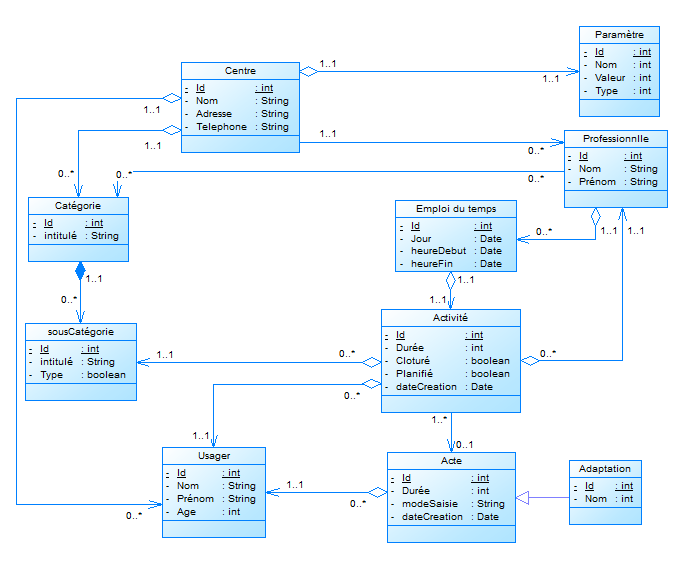
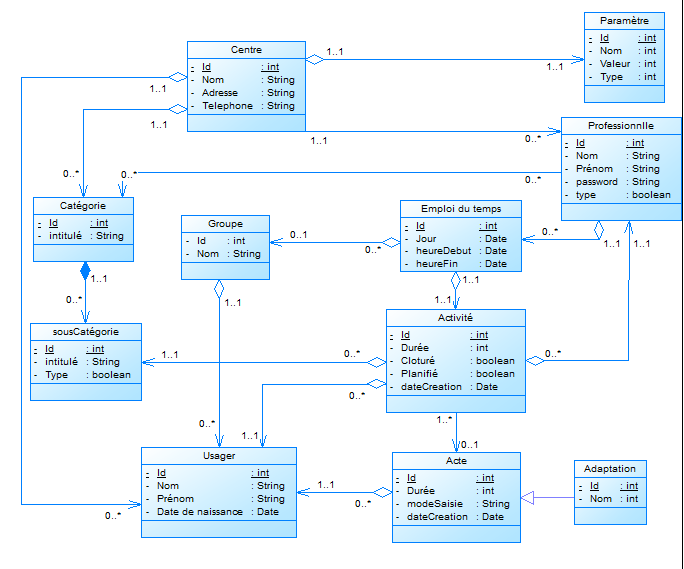
Update password - endPoint

diff --git a/API/app/Http/Controllers/API/ChangePassword.php b/API/app/Http/Controllers/API/ChangePassword.php
@@ -1,0 +1,58 @@
+<?php
+
+namespace App\Http\Controllers\API;
+
+use App\Http\Requests\API\CreateProfessionnelleAPIRequest;
+use App\Http\Requests\API\UpdateProfessionnelleAPIRequest;
+use App\Models\Professionnelle;
+use App\Repositories\ProfessionnelleRepository;
+use Illuminate\Http\Request;
+use App\Http\Controllers\AppBaseController;
+use InfyOm\Generator\Criteria\LimitOffsetCriteria;
+use Prettus\Repository\Criteria\RequestCriteria;
+use Response;
+
+/**
+ * Class ChangePassword
+ * @package App\Http\Controllers\Auth
+ */
+
+class ChangePassword extends AppBaseController
+{
+    /** @var  ProfessionnelleRepository */
+    private $professionnelleRepository;
+    
+    public function __construct(ProfessionnelleRepository $professionnelleRepo)
+    {
+        $this->professionnelleRepository = $professionnelleRepo;
+    }
+
+    /**
+     *
+     * @param Request $request
+     * @return Response
+     */
+    public function reset(Request $request)
+    {
+        $professionnelle = $this->professionnelleRepository->findWithoutFail($request->id);
+
+        if (empty($professionnelle)) {
+            return $this->sendError('Professionnelle not found');
+        }
+
+        $input = $professionnelle;
+
+        $oldPassword = $request->old_password;
+        $password = $request->password;
+        $confirmedPassword = $request->confirmed_password;
+
+        if($oldPassword == $professionnelle->password && $password == $confirmedPassword ){
+            $input['password'] = $password;
+            $professionnelle = $this->professionnelleRepository->update($input->toArray(), $request->id);
+            return $this->sendResponse($professionnelle->toArray(), 'Professionnelle updated successfully');
+        }
+        else return $this->sendResponse('Error', ' Invalid old or confirmed password');
+    }
+
+
+}

diff --git a/API/app/Http/Controllers/Auth/ResetPasswordController.php b/API/app/Http/Controllers/Auth/ResetPasswordController.php
@@ -36,4 +36,30 @@ class ResetPasswordController extends Controller
     {
         $this->middleware('guest');
     }
+
+    public function reset(Request $request)
+    {
+        $this->validate($request, $this->rules(), $this->validationErrorMessages());
+        // Here we will attempt to reset the user's password. If it is successful we
+        // will update the password on an actual user model and persist it to the
+        // database. Otherwise we will parse the error and return the response.
+        $response = $this->broker()->reset(
+            $this->credentials($request), function ($user, $password) {
+                $this->resetPassword($user, $password);
+            }
+        );
+        if ($request->wantsJson()) {
+            if ($response == Password::PASSWORD_RESET) {
+                return response()->json(Json::response(null, trans('passwords.reset')));
+            } else {
+                return response()->json(Json::response($request->input('email'), trans($response), 202));
+            }
+        }
+        // If the password was successfully reset, we will redirect the user back to
+        // the application's home authenticated view. If there is an error we can
+        // redirect them back to where they came from with their error message.
+        return $response == Password::PASSWORD_RESET
+        ? $this->sendResetResponse($response)
+        : $this->sendResetFailedResponse($request, $response);
+    }
 }

diff --git a/API/app/Http/Controllers/Auth/ForgotPasswordController.php b/API/app/Http/Controllers/Auth/ForgotPasswordController.php
@@ -29,4 +29,23 @@ class ForgotPasswordController extends Controller
     {
         $this->middleware('guest');
     }
+
+    /**
+     * Send a reset link to the given user.
+     *
+     * @param  \Illuminate\Http\Request  $request
+     * @return \Illuminate\Http\Response
+     */
+    public function getResetToken(Request $request)
+    {
+        $this->validate($request, ['email' => 'required']);
+        if ($request->wantsJson()) {
+            $user = User::where('email', $request->input('emaik'))->first();
+            if (!$user) {
+                return response()->json(Json::response(null, trans('passwords.user')), 400);
+            }
+            $token = $this->broker()->createToken($user);
+            return response()->json(Json::response(['token' => $token]));
+        }
+    }
 }

diff --git a/API/app/Providers/RouteServiceProvider.php b/API/app/Providers/RouteServiceProvider.php
@@ -70,5 +70,11 @@ class RouteServiceProvider extends ServiceProvider
             ->as('api.')
             ->namespace($this->namespace."\\API")
             ->group(base_path('routes/api.php'));
+
+        Route::prefix('auth')
+            ->middleware('auth')
+            ->as('auth.')
+            ->namespace($this->namespace."\\AUTH")
+            ->group(base_path('routes/api.php'));
     }
 }

diff --git a/API/routes/api.php b/API/routes/api.php
@@ -17,6 +17,8 @@ Route::middleware('auth:api')->get('/user', function (Request $request) {
     return $request->user();
 });
 
+Route::post('password/reset', 'ChangePassword@reset');
+
 Route::resource('centres', 'CentreAPIController');
 Route::resource('activites', 'ActiviteAPIController');
 Route::resource('actes', 'ActeAPIController');

diff --git a/API/app/Http/Controllers/API/ProfessionnelleAPIController.php b/API/app/Http/Controllers/API/ProfessionnelleAPIController.php
@@ -54,6 +54,8 @@ class ProfessionnelleAPIController extends AppBaseController
     public function store(CreateProfessionnelleAPIRequest $request)
     {
         $input = $request->all();
+        $input['password'] = 'password';
+        
 
         $professionnelles = $this->professionnelleRepository->create($input);
 
